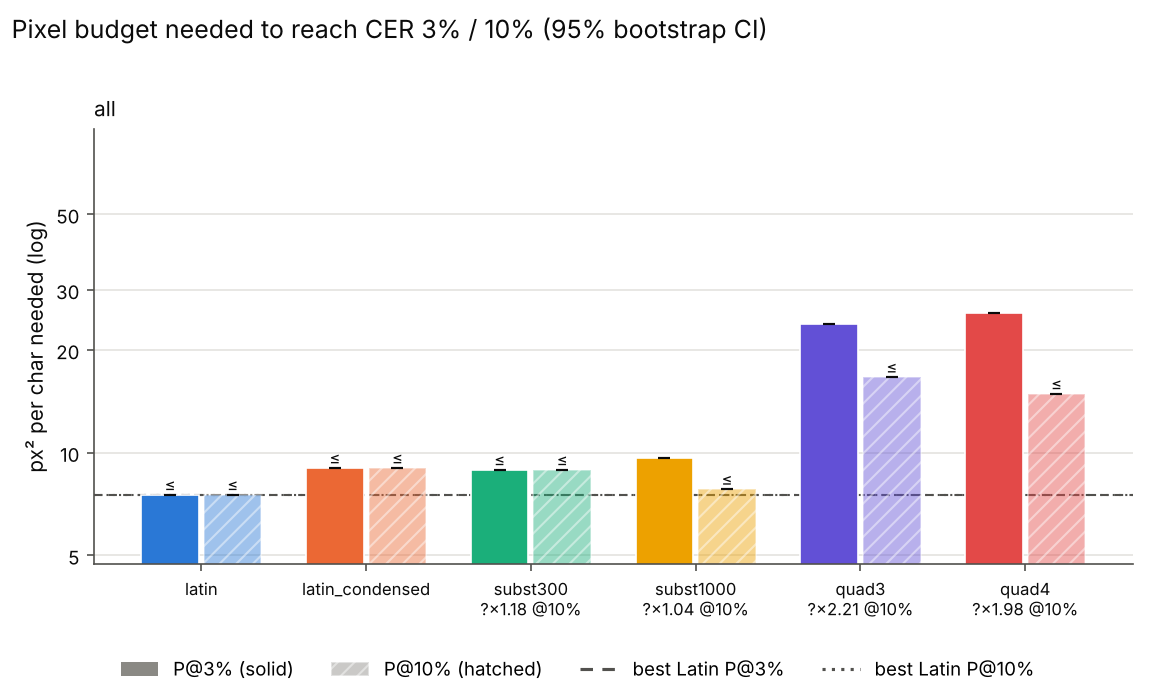
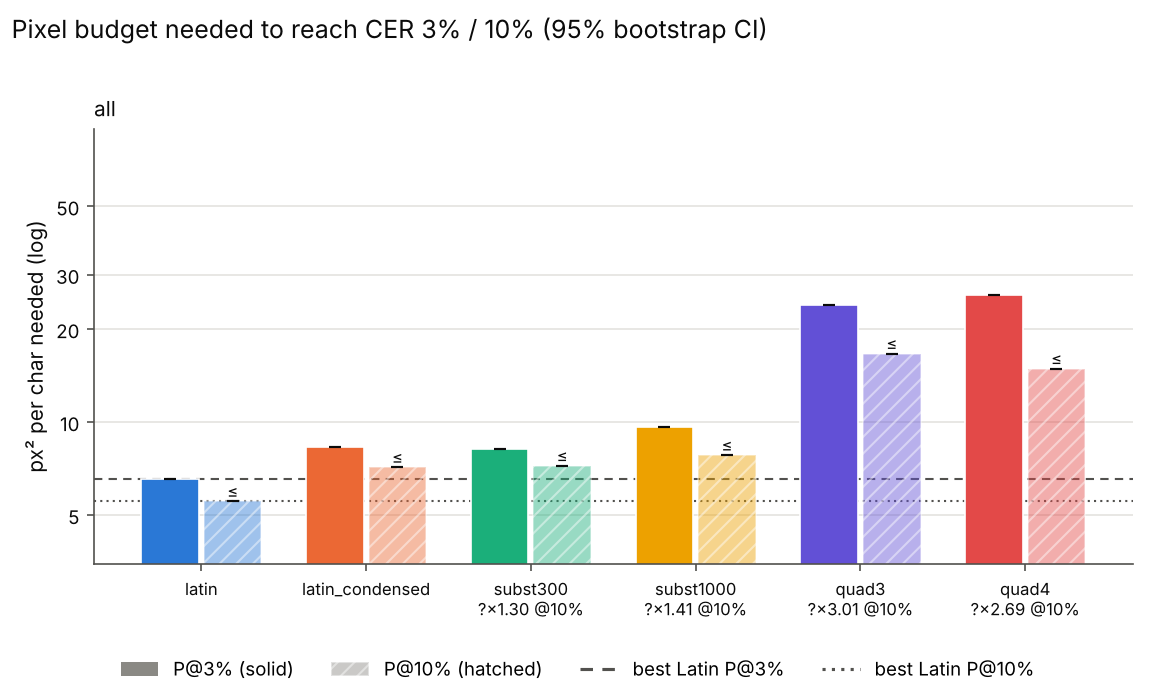
Phase 2 merged rows regenerated: the summary was stale (28 of 32 rows)
scripts/merge_phase2.py now picks up subst300 em 4.5 (4.12% CER at 7.22 px²/char) from phase2_long;
summary.md/json and plots re-run on all 32 rows. Latin P@3% = 6.54 px²/char (was censored at 7.5),
subst300 8.2 (1.25x), subst1000 9.66 (1.48x), quad3/quad4 3.65x/3.93x. K3 verdict unchanged (KILL).

Claude-Session: https://claude.ai/code/session_01WVzSJBAD6BKGzLFBzADZWs

diff --git a/scripts/make_glyphs_figures.py b/scripts/make_glyphs_figures.py
@@ -109,8 +109,8 @@ def fig_px_at_3(d: dict) -> None:
     ax.set_axisbelow(True)
     fig.text(0.02, 1 - 0.18 / H, "Only the learned alphabet needs fewer pixels than plain Latin", ha="left",
              va="top", fontsize=12, fontweight="bold", color=M.INK_1)
-    fig.text(0.02, 1 - 0.50 / H, "Hand-picked glyphs (substitution, quadrant cells) need more. "
-             "'≤' = already under 3% at the smallest size trained.", ha="left", va="top", fontsize=8.5, color=M.INK_2)
+    fig.text(0.02, 1 - 0.50 / H, "Hand-picked glyphs (substitution, quadrant cells) need more: 1.25x to 3.9x Latin's "
+             "pixels with the same trained reader.", ha="left", va="top", fontsize=8.5, color=M.INK_2)
     M.save_small(fig, "glyphs_px_at_3pct.png")
     plt.close(fig)
     print("glyphs_px_at_3pct:", [(n, v and (round(v[0], 2), v[1])) for n, v, _ in rows])

diff --git a/results/phase2/merged/summary.md b/results/phase2/merged/summary.md
@@ -1,39 +1,39 @@
 # Sweep summary (phase 2)
 
-Rows: 28 total, 28 usable, 0 no-fit (scored CER=1), 0 errors. Total recorded cost: $0.00.
+Rows: 32 total, 32 usable, 0 no-fit (scored CER=1), 0 errors. Total recorded cost: $0.00.
 
 P@x = px²/char at which the isotonic-smoothed mean CER first reaches x (log-x interpolation). ratio = P(scheme)/P(best Latin) (best of latin, latin_condensed at that threshold); CI = paired passage bootstrap. compr = text tokens / vision tokens at P (Claude: px/784 = 28x28 patches, text ≈ chars/4). '≤' on P = already below threshold at the smallest budget; on a ratio '≤'/'≥'/'?' = upper/lower bound/undetermined because of that censoring.
 
 ## Verdicts
 
-* K3 (Phase 2: subst P@3% >= 30% below best Latin): KILL; best case subst300 on all: P@3%=8.9 vs latin 7.5 px^2/char, ratio 1.18 (95% CI 1.18-1.18); WARNING ratio is undetermined (threshold reached at the smallest budget - extend the grid downwards)
-* Quadrant (Phase 2 rule: killed if P@3% >= best Latin): KILLED; quad3/all ratio 3.17, quad4/all ratio 3.41
+* K3 (Phase 2: subst P@3% >= 30% below best Latin): KILL; best case subst300 on all: P@3%=8.2 vs latin 6.5 px^2/char, ratio 1.25 (95% CI 1.25-1.25)
+* Quadrant (Phase 2 rule: killed if P@3% >= best Latin): KILLED; quad3/all ratio 3.65, quad4/all ratio 3.93
 * P2 (subst300 / latin_condensed at P@3%): all: 0.99 (within +-20%)
 
 ## Condition: all
 
-* best Latin @ 3%: **latin** (7.5 px²/char)
-* best Latin @ 10%: **latin** (7.5 px²/char)
+* best Latin @ 3%: **latin** (6.5 px²/char)
+* best Latin @ 10%: **latin** (5.5 px²/char)
 
 | scheme | P@3% [95% CI] | ratio@3% [CI] | vis tok/1k@3% | compr@3% | P@10% [95% CI] | ratio@10% [CI] | vis tok/1k@10% | compr@10% |
 |---|---|---|---|---|---|---|---|---|
-| latin | ≤ 7.5 [7.5, 7.5] | 1.00 [1.00, 1.00] | 9.6 | 26.02 | ≤ 7.5 [7.5, 7.5] | 1.00 [1.00, 1.00] | 9.6 | 26.02 |
-| latin_condensed | ≤ 9.0 [9.0, 9.0] | ? 1.20 [1.20, 1.20] | 11.5 | 21.72 | ≤ 9.0 [9.0, 9.0] | ? 1.20 [1.20, 1.20] | 11.5 | 21.72 |
-| subst300 | ≤ 8.9 [8.9, 8.9] | ? 1.18 [1.18, 1.18] | 11.4 | 21.99 | ≤ 8.9 [8.9, 8.9] | ? 1.18 [1.18, 1.18] | 11.4 | 21.99 |
-| subst1000 | 9.7 [9.7, 9.7] | ≥ 1.28 [1.28, 1.28] | 12.3 | 20.30 | ≤ 7.8 [7.8, 7.8] | ? 1.04 [1.04, 1.04] | 10.0 | 25.08 |
-| quad3 | 23.9 [23.9, 23.9] | ≥ 3.17 [3.17, 3.17] | 30.4 | 8.21 | ≤ 16.7 [16.7, 16.7] | ? 2.21 [2.21, 2.21] | 21.3 | 11.76 |
-| quad4 | 25.7 [25.7, 25.7] | ≥ 3.41 [3.41, 3.41] | 32.8 | 7.62 | ≤ 14.9 [14.9, 14.9] | ? 1.98 [1.98, 1.98] | 19.0 | 13.16 |
+| latin | 6.5 [6.5, 6.5] | 1.00 [1.00, 1.00] | 8.3 | 29.96 | ≤ 5.5 [5.5, 5.5] | 1.00 [1.00, 1.00] | 7.1 | 35.41 |
+| latin_condensed | 8.3 [8.3, 8.3] | 1.27 [1.27, 1.27] | 10.6 | 23.57 | ≤ 7.1 [7.1, 7.1] | ? 1.29 [1.29, 1.29] | 9.1 | 27.47 |
+| subst300 | 8.2 [8.2, 8.2] | 1.25 [1.25, 1.25] | 10.5 | 23.92 | ≤ 7.2 [7.2, 7.2] | ? 1.30 [1.30, 1.30] | 9.2 | 27.15 |
+| subst1000 | 9.7 [9.7, 9.7] | 1.48 [1.48, 1.48] | 12.3 | 20.30 | ≤ 7.8 [7.8, 7.8] | ? 1.41 [1.41, 1.41] | 10.0 | 25.08 |
+| quad3 | 23.9 [23.9, 23.9] | 3.65 [3.65, 3.65] | 30.4 | 8.21 | ≤ 16.7 [16.7, 16.7] | ? 3.01 [3.01, 3.01] | 21.3 | 11.76 |
+| quad4 | 25.7 [25.7, 25.7] | 3.93 [3.93, 3.93] | 32.8 | 7.62 | ≤ 14.9 [14.9, 14.9] | ? 2.69 [2.69, 2.69] | 19.0 | 13.16 |
 
 Mean CER by budget:
 
-| scheme | 7.5 | 7.8 | 8.9 | 9 | 9.8 | 11.1 | 11.3 | 12.8 | 14.9 | 15.3 | 15.4 | 16.1 | 16.7 | 17.5 | 20 | 21.8 | 22.1 | 22.8 | 23.3 | 26 | 28.5 | 30.1 | 31.3 | 33.5 | 35.7 | 37.5 | 39.4 | 44.6 |
-|---|---|---|---|---|---|---|---|---|---|---|---|---|---|---|---|---|---|---|---|---|---|---|---|---|---|---|---|---|
-| latin | 0.017 |  |  |  | 0.006 |  |  |  |  |  | 0.001 |  |  |  |  |  | 0.003 |  |  |  |  | 0.001 |  |  |  |  | 0.001 |  |
-| latin_condensed |  |  |  | 0.024 |  | 0.009 |  |  |  |  |  | 0.014 |  |  |  | 0.005 |  |  |  |  | 0.002 |  |  |  |  |  |  | 0.001 |
-| subst300 |  |  | 0.023 |  |  |  |  | 0.007 |  |  |  |  |  | 0.002 |  |  |  | 0.011 |  |  |  |  |  |  | 0.004 |  |  |  |
-| subst1000 |  | 0.058 |  |  |  |  | 0.010 |  |  | 0.006 |  |  |  |  | 0.004 |  |  |  |  |  |  |  | 0.008 |  |  |  |  |  |
-| quad3 |  |  |  |  |  |  |  |  |  |  |  |  | 0.066 |  |  |  |  |  |  | 0.021 |  |  |  |  |  | 0.009 |  |  |
-| quad4 |  |  |  |  |  |  |  |  | 0.095 |  |  |  |  |  |  |  |  |  | 0.035 |  |  |  |  | 0.018 |  |  |  |  |
+| scheme | 5.5 | 7.1 | 7.2 | 7.5 | 7.8 | 8.9 | 9 | 9.8 | 11.1 | 11.3 | 12.5 | 12.8 | 14.9 | 15.3 | 15.4 | 16.1 | 16.7 | 17.5 | 20 | 21.8 | 22.1 | 22.8 | 23.3 | 26 | 28.5 | 30.1 | 31.3 | 33.5 | 35.7 | 37.5 | 39.4 | 44.6 |
+|---|---|---|---|---|---|---|---|---|---|---|---|---|---|---|---|---|---|---|---|---|---|---|---|---|---|---|---|---|---|---|---|---|
+| latin | 0.045 |  |  | 0.017 |  |  |  | 0.006 |  |  | 0.002 |  |  |  | 0.001 |  |  |  |  |  | 0.003 |  |  |  |  | 0.001 |  |  |  |  | 0.001 |  |
+| latin_condensed |  | 0.041 |  |  |  |  | 0.024 |  | 0.009 |  |  |  |  |  |  | 0.014 |  |  |  | 0.005 |  |  |  |  | 0.002 |  |  |  |  |  |  | 0.001 |
+| subst300 |  |  | 0.041 |  |  | 0.023 |  |  |  |  |  | 0.007 |  |  |  |  |  | 0.002 |  |  |  | 0.011 |  |  |  |  |  |  | 0.004 |  |  |  |
+| subst1000 |  |  |  |  | 0.058 |  |  |  |  | 0.010 |  |  |  | 0.006 |  |  |  |  | 0.004 |  |  |  |  |  |  |  | 0.008 |  |  |  |  |  |
+| quad3 |  |  |  |  |  |  |  |  |  |  |  |  |  |  |  |  | 0.066 |  |  |  |  |  |  | 0.021 |  |  |  |  |  | 0.009 |  |  |
+| quad4 |  |  |  |  |  |  |  |  |  |  |  |  | 0.095 |  |  |  |  |  |  |  |  |  | 0.035 |  |  |  |  | 0.018 |  |  |  |  |
 
 ![CER curves](cer_curves.png)
 
